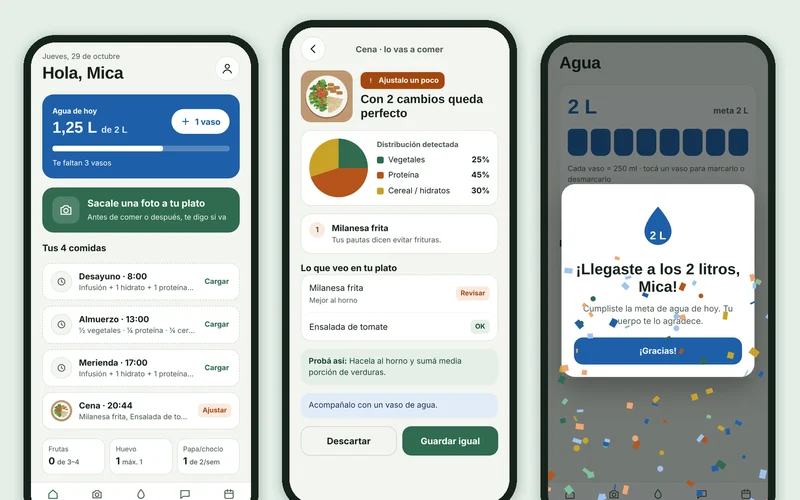
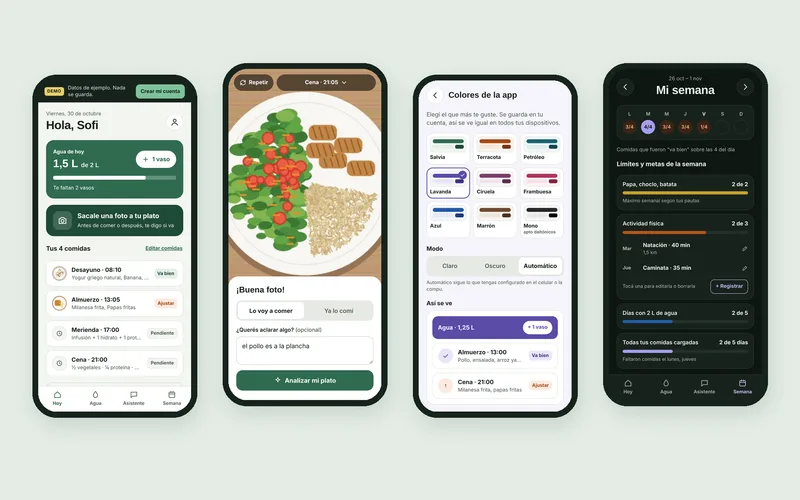
Mi Plato: capturas nuevas en el README y en el portafolio, y demo en la tarjeta
Claude-Session: https://claude.ai/code/session_01JzwNh1BuVGLU55Xze9deJb

diff --git a/web/index.html b/web/index.html
@@ -228,11 +228,11 @@
                 <div class="projects-grid carousel-track" id="projectsTrack" tabindex="0">
                     <article class="project-card">
                         <div class="project-image">
-                            <img src="assets/img/mi-plato.webp" alt="Capturas de Mi Plato: pantalla Hoy con el agua del día, análisis de un plato y festejo al llegar a los 2 litros" width="800" height="500" loading="lazy">
+                            <img src="assets/img/mi-plato.webp" alt="Capturas de Mi Plato: pantalla Hoy de la demo, cámara para cargar un plato, elección de colores de la app y resumen semanal en modo oscuro" width="800" height="500" loading="lazy">
                         </div>
                         <div class="project-info">
                             <h3>Mi Plato</h3>
-                            <p class="project-description">App móvil y web para el seguimiento de comidas, con IA integrada: analiza la foto de tu plato según las pautas de tu nutricionista, lee tus PDFs y te sugiere recetas. Cuenta en la nube, recordatorios y resumen semanal exportable listo para compartir.</p>
+                            <p class="project-description">App móvil y web para el seguimiento de comidas, con IA integrada: analiza la foto de tu plato según las pautas de tu nutricionista, lee tus PDFs y te sugiere recetas. Cuenta en la nube, recordatorios y resumen semanal exportable listo para compartir. Con demo para probarla sin registrarse.</p>
                             <ul class="project-tech">
                                 <li>HTML5</li><li>CSS3</li><li>JavaScript</li><li>Gemini API</li><li>Supabase</li><li>Vercel</li>
                             </ul>
